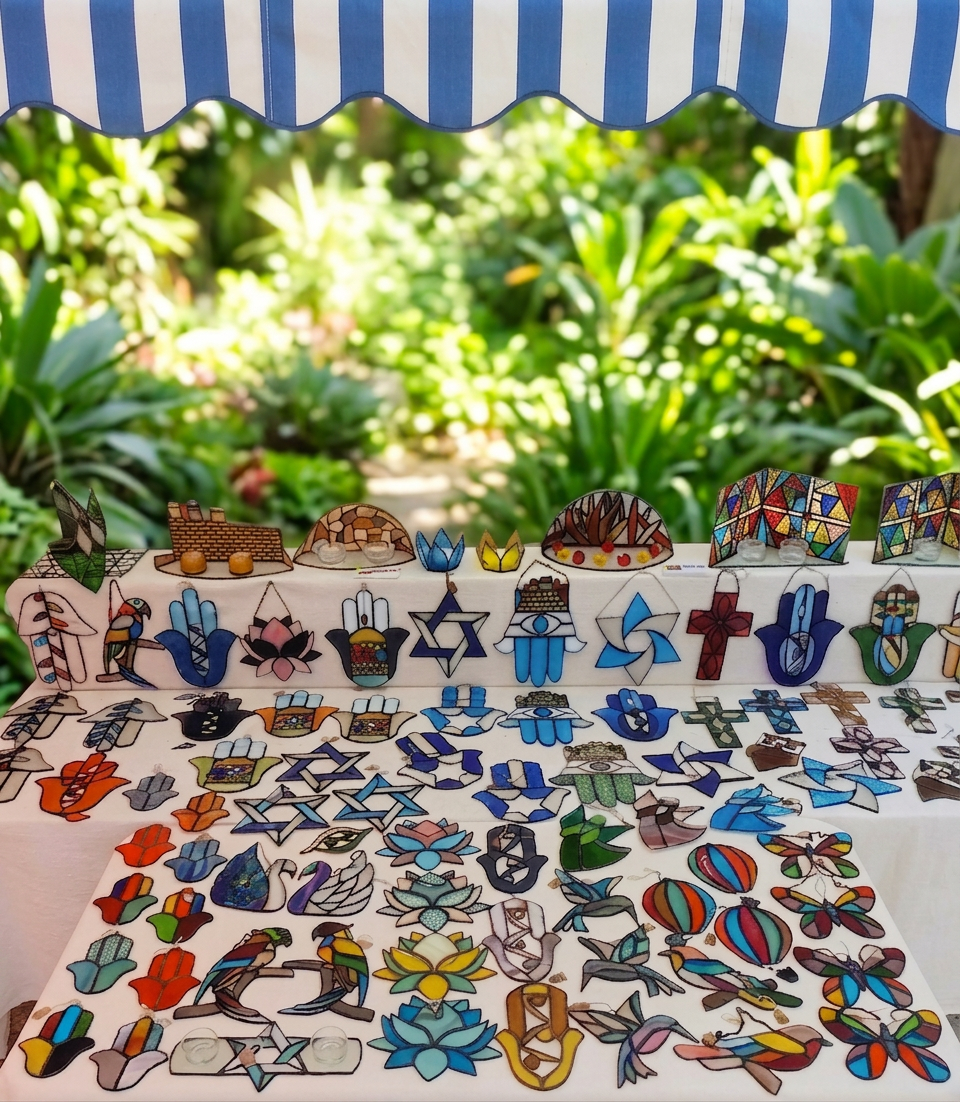
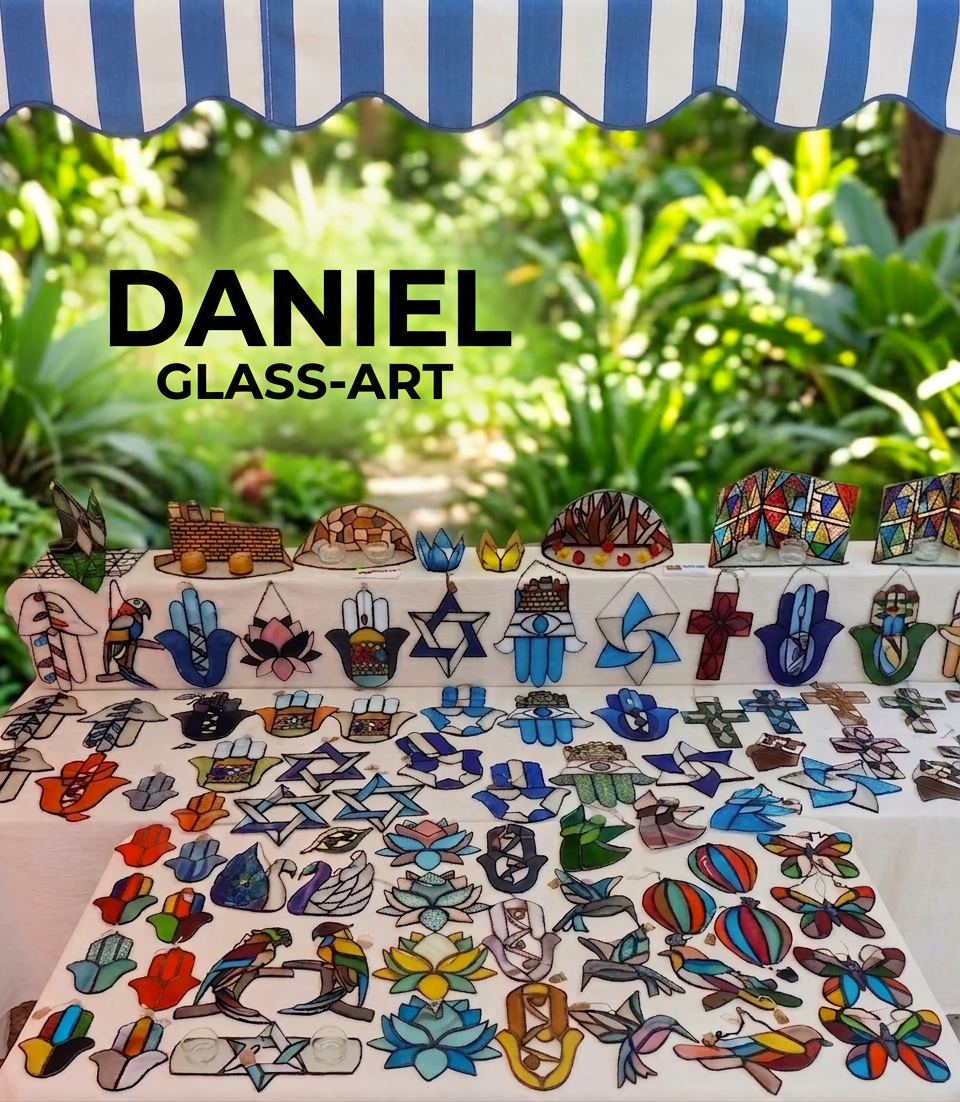
Changes

diff --git a/src/components/mall/StoreCard.tsx b/src/components/mall/StoreCard.tsx
@@ -29,6 +29,7 @@ import israelMezuzahsImg from "@/assets/stores/israel-mezuzahs.png";
 import floor3Shop4Img from "@/assets/stores/floor3-shop4.png";
 import floor1Shop4Img from "@/assets/stores/floor1-shop4.png";
 import floor1Shop6Img from "@/assets/stores/floor1-shop6.png";
+import danielGlassArtLogo from "@/assets/stores/daniel-glass-art-logo.jpg";
 
 type BrandStyle = {
   bg: string;
@@ -120,6 +121,7 @@ const idOverrides: Record<string, Partial<BrandStyle & { name: string }>> = {
     font: "font-frank",
     image: floor1Shop6Img,
     subtitle: "אמנות ויטראז' בעבודת יד",
+    logo: danielGlassArtLogo,
   },
 };
 
